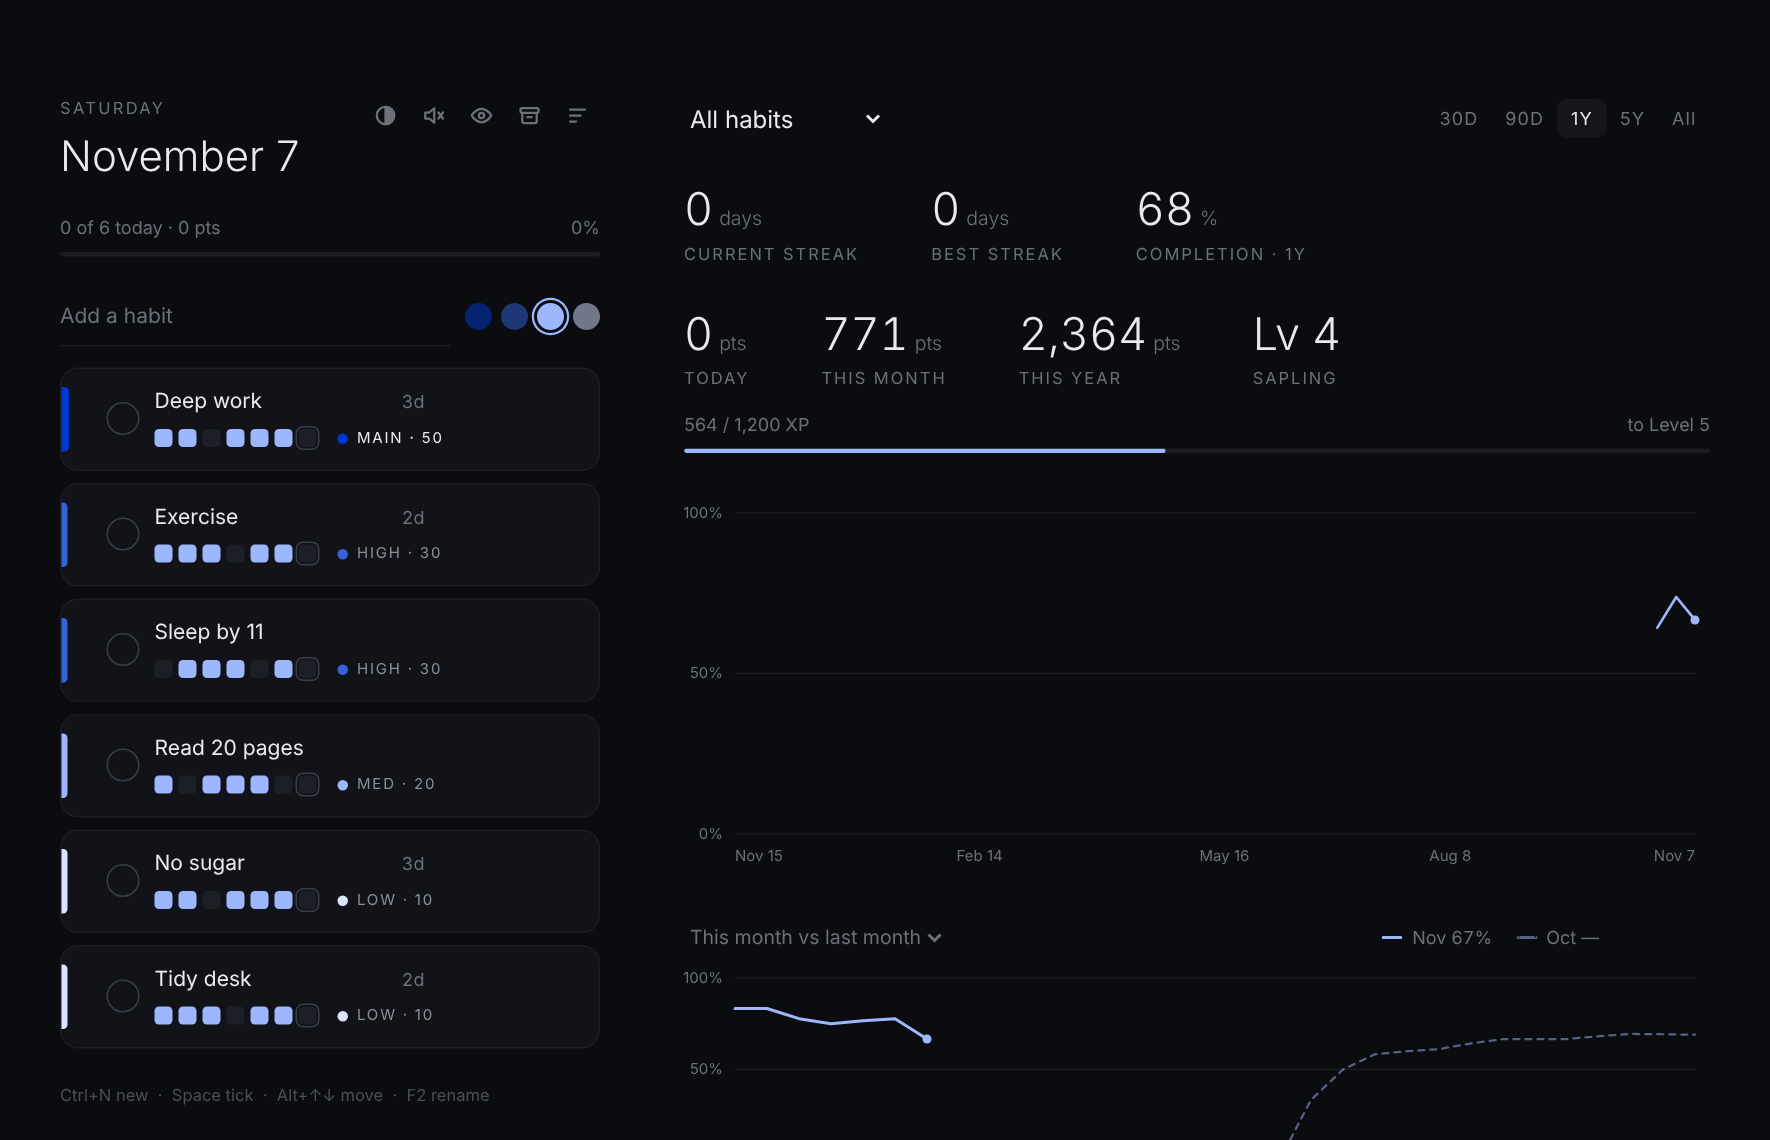
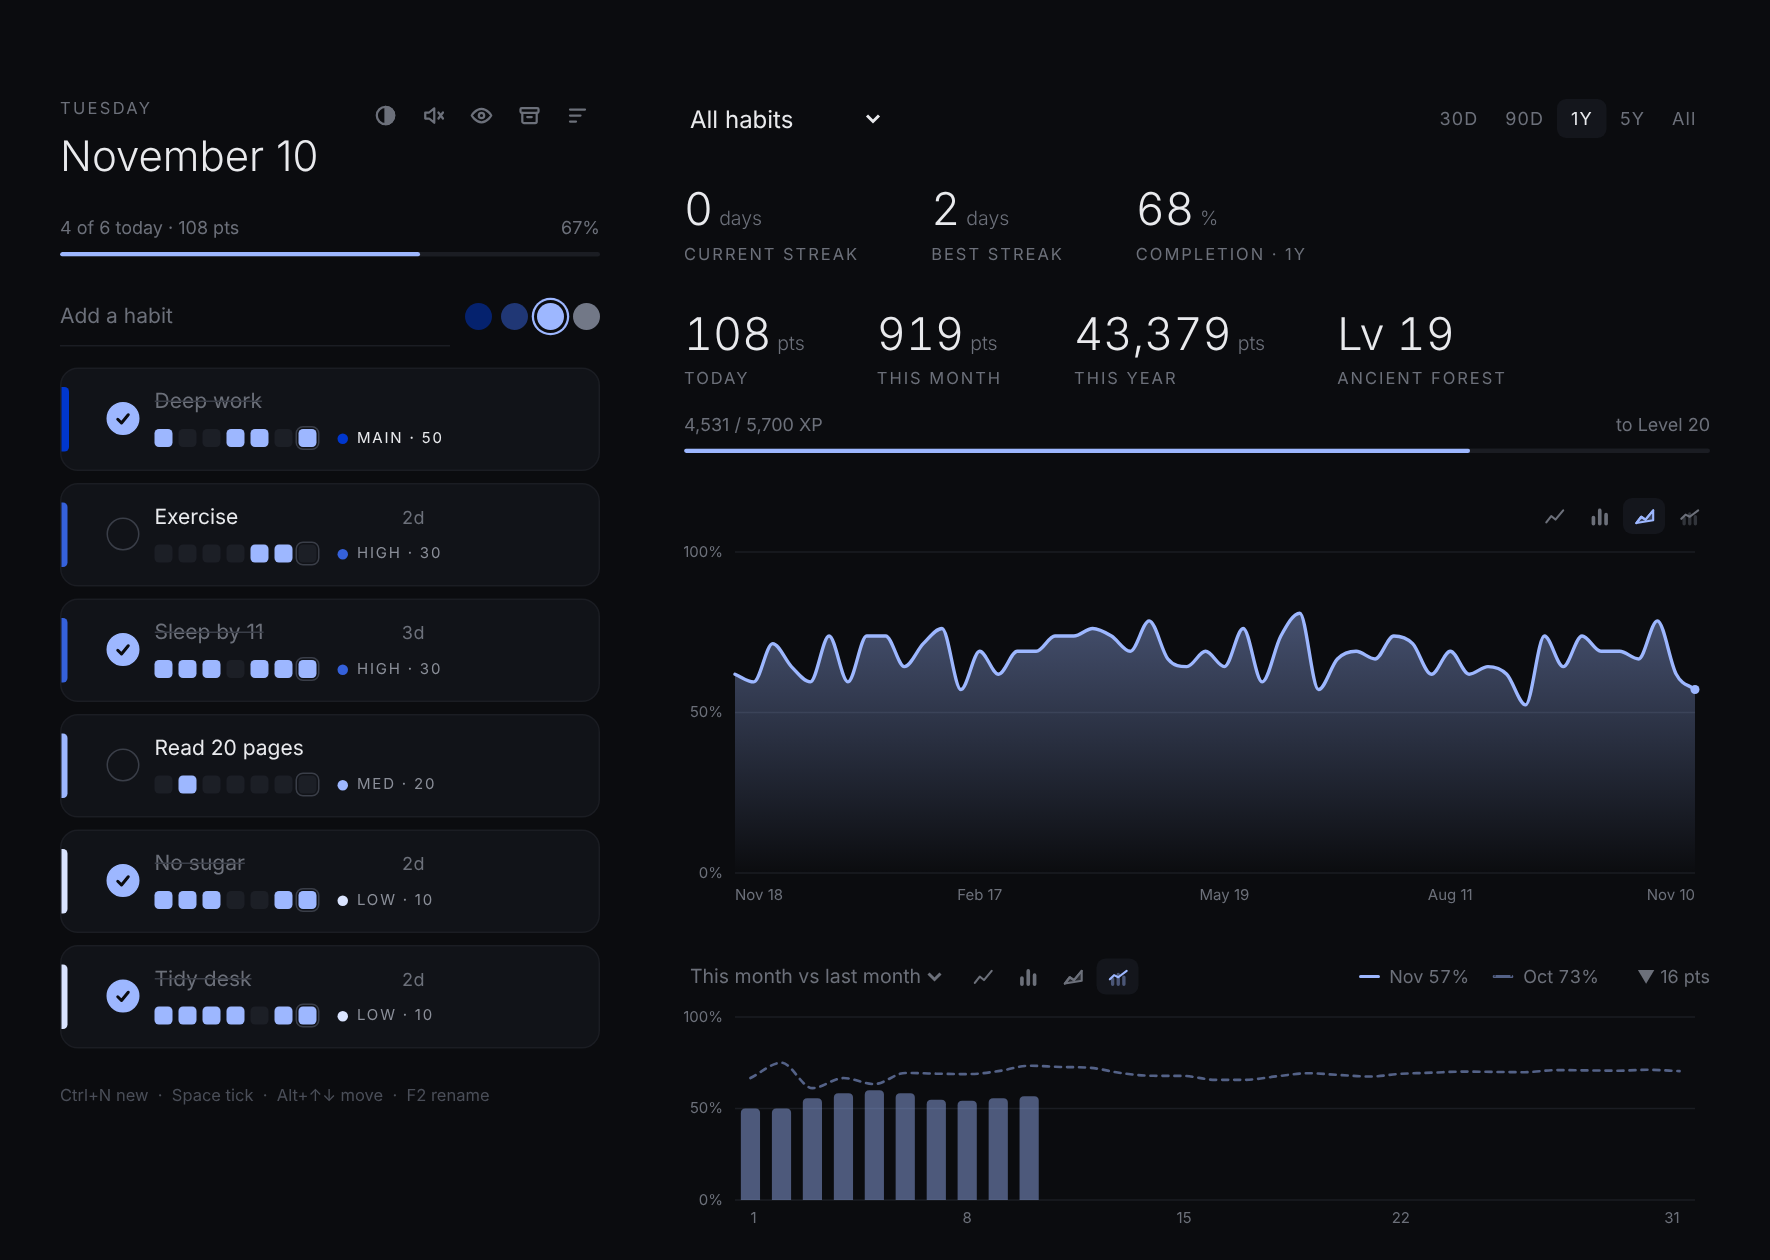
1.6.0

diff --git a/README.md b/README.md
@@ -1,49 +1,121 @@
+<div align="center">
+
 # Habit Tracker
 
-A minimalist, dark desktop habit tracker for Windows. Everything is stored locally on your PC — no account, no cloud.
+**A minimalist dark habit tracker for Windows.**
+Cards, streaks, levels and four kinds of charts, all stored on your own PC.
+
+![Version](https://img.shields.io/badge/version-1.6.0-9db7ff?style=flat-square)
+![Platform](https://img.shields.io/badge/platform-Windows-1c1f26?style=flat-square)
+![Built with](https://img.shields.io/badge/built%20with-Electron-1c1f26?style=flat-square)
+![License](https://img.shields.io/badge/license-MIT-1c1f26?style=flat-square)
 
 ![Habit Tracker](docs/screenshot.png)
 
+</div>
+
+## Why this one
+
+- **Private.** No account, no cloud, no tracking. Your data is a single JSON file on your PC.
+- **Honest.** A habit starts counting the day you create it and can't be backdated. Archived days are skipped, never counted as misses.
+- **Motivating, not noisy.** Points, streaks and levels are there if you want them. The look stays black, white and one accent colour.
+
 ## Install
-Download the newest installer from the `releases/` folder of this repository and run it.
-The installer is unsigned, so Windows SmartScreen shows an "unknown publisher" warning (click *More info → Run anyway*).
-Your data survives updates and uninstalling.
+
+1. Download the newest installer from the [`releases/`](releases) folder and run it.
+2. The installer is unsigned, so Windows SmartScreen will warn about an unknown publisher. Click **More info → Run anyway**.
+3. Your data survives updates and uninstalling.
 
 ## Features
-- **Habits as cards**: add, rename (double-click or F2), drag to reorder (or Alt+↑/↓), archive, delete (with undo).
-- **Sort menu**: by priority, most done, least done, oldest or newest habit (one-time reorder with undo).
-- **Priorities**: **Main** (only one at a time, 50 pts), High 30, Medium 20, Low 10. Shown as shades of one accent colour.
-- **Tracking starts the day a habit is created** and can't be backdated; archived days are skipped, not counted as misses.
-- **Scoring and levels**: streak multiplier, Perfect Day bonus, levels from Seed to Ancient Forest. See [docs/SCORING.md](docs/SCORING.md).
-- **Graphs**: completion graph (30D / 90D / 1Y / 5Y / All) and a month-vs-last-month / year-vs-last-year comparison, each switchable between **line, column, area and column + line**, plus a heatmap with 5+ years of history.
-- **Accent colour picker**, soft sound feedback (Ctrl+M to mute), hide completed, show archived.
-- **Scales to any window size** (auto zoom, Ctrl +/−/0, F11 fullscreen).
-- **Safe data**: atomic saves, daily automatic backups, export/import.
 
-## Keyboard
-Ctrl+N new habit · Space tick · Alt+↑/↓ move · F2 rename · Del delete · Ctrl+M sound · Ctrl +/−/0 zoom · F11 fullscreen
+### Habits
+- Each habit is a card. Add, rename (double-click or `F2`), reorder by dragging (or `Alt+↑/↓`), archive, or delete (with undo).
+- **Priorities** show as shades of one accent colour: **Main** (only one at a time, 50 pts), **High** (30), **Medium** (20), **Low** (10). Past Main days keep their value after you move Main to another habit.
+- **Sort menu**: priority, most done, least done, oldest, newest. Sorting is a one-time reorder (completion % since the habit started) and can be undone.
+- Hide completed habits or show archived ones.
 
-## Where your data lives
-`%APPDATA%\Habit Tracker\` — `habits.json` (your data), `backups\` (one file per day, last 150 kept), `window.json` (window size and zoom). Format: [docs/DATA.md](docs/DATA.md).
+### Charts
+Two graphs, and each one can be switched between four chart types:
 
-## Develop
+![Line, column, area and column + line charts](docs/charts.png)
+
+| Type | Look |
+| --- | --- |
+| Line | Crisp line with an end marker |
+| Column | Rounded columns, shaded by value like the heatmap |
+| Area | Smooth curve over a soft gradient |
+| Column + line | Faint columns with a smooth trend line on top |
+
+- **Completion graph** with ranges 30D / 90D / 1Y / 5Y / All, for all habits or a single one.
+- **Comparison graph**: this month vs last month, or this year vs last year.
+- **Heatmap** with 5+ years of history.
+
+### Score and levels
+Finishing habits earns points, a streak multiplier (+10% per day, up to ×2) and a Perfect Day bonus (+25%). Points add up to levels, from Seed to Ancient Forest. Full rules: [docs/SCORING.md](docs/SCORING.md).
+
+### Comfort
+- Pick any accent colour, and every chart and shade follows it.
+- Soft synthesized sound feedback (`Ctrl+M` to mute).
+- Scales to any window size (auto zoom, `Ctrl +/−/0`, `F11` fullscreen).
+- Atomic saves, a daily automatic backup (last 150 kept), and export/import.
+
+## Keyboard shortcuts
+
+| Key | Action |
+| --- | --- |
+| `Ctrl+N` | New habit |
+| `Space` | Tick the selected habit |
+| `Alt+↑` / `Alt+↓` | Move habit |
+| `F2` | Rename |
+| `Del` | Delete (undo available) |
+| `Ctrl+M` | Mute / unmute sound |
+| `Ctrl +` / `−` / `0` | Zoom in / out / reset |
+| `F11` | Fullscreen |
+
+## Your data
+
+Everything lives in `%APPDATA%\Habit Tracker\`:
+
+| File | Contents |
+| --- | --- |
+| `habits.json` | Your habits and history |
+| `backups\` | One file per day, last 150 kept |
+| `window.json` | Window size and zoom |
+
+Nothing is ever sent anywhere. Format details: [docs/DATA.md](docs/DATA.md).
+
+## Build from source
+
+Requires [Node.js](https://nodejs.org) (18 or newer).
+
 ```bash
 npm install
 npm start      # run the app
 npm test       # behaviour tests (jsdom, no window needed)
 npm run dist   # build dist/HabitTracker-Setup-<version>.exe
 ```
-Building the Windows installer on Linux needs `wine` (for icon embedding). electron-builder prints a harmless
-`Cannot read properties of null (reading 'channel')` after it has written the installer.
+
+Building the Windows installer on Linux needs `wine` (for icon embedding). electron-builder prints a harmless `Cannot read properties of null (reading 'channel')` after it has written the installer.
 
 ## Project layout
+
 ```
 src/main/       Electron main process: window, zoom, file storage, backups, IPC
 src/renderer/   The UI (plain HTML/CSS/JS, no framework, no bundler)
-  js/           Scripts loaded in order by index.html (see docs/ARCHITECTURE.md)
-build/          App icon files   (tools/make_icon.py regenerates them)
+  js/           Scripts loaded in order by index.html
+build/          App icon (tools/make_icon.py regenerates it)
 tests/run.js    Behaviour tests
-releases/       The built Windows installer
-docs/           ARCHITECTURE.md · SCORING.md · DATA.md · CHANGELOG.md
+releases/       Built Windows installers
+docs/           ARCHITECTURE · SCORING · DATA · CHANGELOG
 CLAUDE.md       Notes for AI assistants working in this repo
 ```
+
+More detail: [docs/ARCHITECTURE.md](docs/ARCHITECTURE.md) · [docs/CHANGELOG.md](docs/CHANGELOG.md).
+
+## Built with AI
+
+This app was designed by [Qasim Tariq](https://github.com/qasim5920) and built together with Claude. `CLAUDE.md` holds the working notes so any assistant (or person) can pick the project up.
+
+## License
+
+[MIT](LICENSE) © 2026 Qasim Tariq
